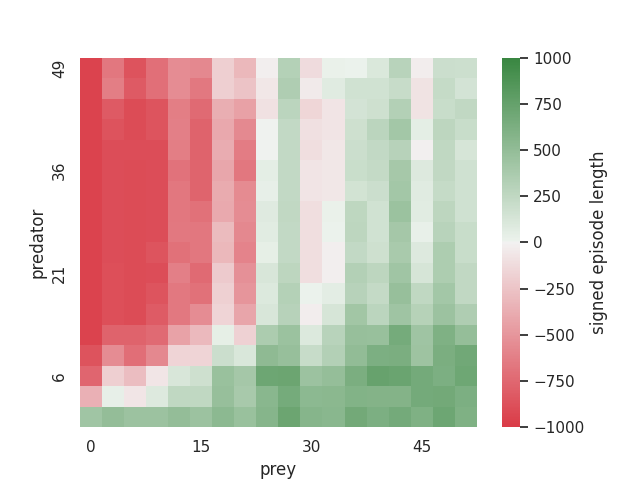
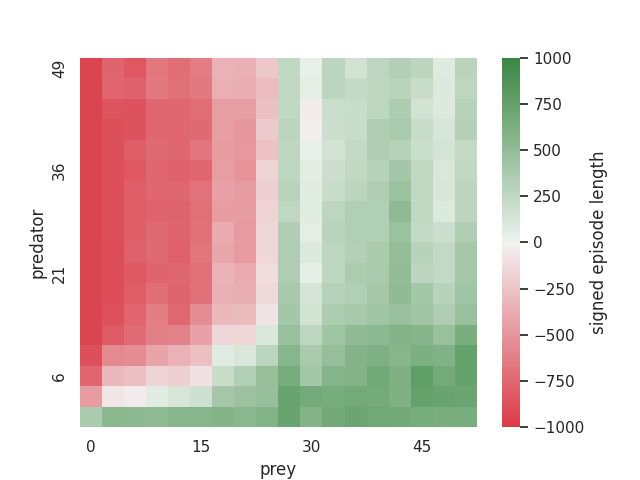
Add crosstest figure generator

diff --git a/bach-utils/bach_utils/heatmapvis.py b/bach-utils/bach_utils/heatmapvis.py
@@ -2,6 +2,18 @@ import seaborn as sns
 import matplotlib.pyplot as plt
 import plotly.graph_objects as go
 import numpy as np
+import pandas as pd
+from matplotlib.colors import LinearSegmentedColormap
+# cmap = sns.diverging_palette(145, 20, as_cmap=True).reversed()
+cmap = sns.diverging_palette(130, 10, as_cmap=True).reversed()
+# cmap = sns.color_palette("coolwarm", as_cmap=True).reversed()
+# cmap = sns.cm.rocket_r
+
+# cmap = LinearSegmentedColormap.from_list(
+#     name='test', 
+#     # colors=['red','white','green']
+#     colors=['red','white','green']
+# )
 
 # https://plotly.com/python/heatmaps/
 # http://www.heatmapper.ca/pairwise/
@@ -12,32 +24,59 @@ class HeatMapVisualizer:
     @staticmethod
     def visSeaborn(heatmap_data,
                    mn_val=0.0,
-                   mx_val=1.0,
+                   mx_val=1000.0,
                    center=0.5,
-                   labels=["prey", "predator", "win rate", "win rate (heatmap)"],
+                #    labels=["prey", "predator", "episode length", "win rate (heatmap)"],
+                   labels=["prey", "predator", "signed episode length", ""],
                    annot=False,
                    linewidth=0,
-                   cmap="bwr",#"YlGnBu",
+                   cmap=cmap,#"YlGnBu",#"YlGnBu",
                    xticklabels=5,
                    yticklabels=5,
+                   x_axis=None,
+                   y_axis=None,
                    cbar=True,
-                   show=True):
+                   show=True,
+                   save=False, save_path=None):
+        mx_val = mx_val
         if(isinstance(heatmap_data, list)):
             heatmap_data = np.mean(heatmap_data, axis=0)
-        ax = sns.heatmap(heatmap_data, 
-                         vmin=mn_val, vmax=mx_val, center=center, 
-                         cbar_kws={'label': labels[2]}, annot=annot,
-                         linewidth=linewidth,
-                         cmap=cmap,
-                         xticklabels=xticklabels, yticklabels=yticklabels,
-                         cbar=cbar
-                         )
+            # heatmap_data = np.std(heatmap_data, axis=0)
+            # mx_val = np.max(heatmap_data)
+
+        ax = None
+        if(x_axis is not None and y_axis is not None):
+            df = pd.DataFrame(heatmap_data, y_axis, columns=x_axis)
+            ax = sns.heatmap(df, 
+                            vmin=mn_val, vmax=mx_val, center=center, 
+                            cbar_kws={'label': labels[2]}, annot=annot,
+                            linewidth=linewidth,
+                            cmap=cmap,
+                            xticklabels=xticklabels, yticklabels=yticklabels,
+                            cbar=cbar
+                            )
+        else:
+            ax = sns.heatmap(heatmap_data, 
+                            vmin=mn_val, vmax=mx_val, center=center, 
+                            cbar_kws={'label': labels[2]}, annot=annot,
+                            linewidth=linewidth,
+                            cmap=cmap,
+                            xticklabels=xticklabels, yticklabels=yticklabels,
+                            cbar=cbar
+                            )
         ax.set_xlabel(labels[0])
         ax.set_ylabel(labels[1])
         ax.set_title(labels[3])
-        
+        if(save):
+            if(save_path is None):
+                print("Saved in the script place with name: test.png")
+                plt.savefig('test.png')
+            else:
+                print(f"Saved in the script place with name: {save_path}")
+                plt.savefig(save_path)
         if(show):
             plt.show()
+        
 
         return ax
     @staticmethod

diff --git a/figures_gen/crosstest_gen.py b/figures_gen/crosstest_gen.py
@@ -1,0 +1,32 @@
+import seaborn as sns
+import pandas as pd
+import numpy as np
+from matplotlib import pyplot as plt
+ 
+
+cmap = sns.color_palette("coolwarm", as_cmap=True).reversed() #sns.cm.rocket_r
+
+# ['pop5', 'random']
+# [[0.         0.60266667]
+#  [0.         0.        ]]
+# Create a dataset
+N = 4
+# a = np.random.rand(N, N) - 0.5
+a = np.array([
+    [0,-0.7,-1, -0.3],
+    [0,0,-0.60266667, 0.2],
+    [0,0,0,0.8],
+    [0,0,0,0],
+]).T
+# for i in range(4):
+#     a[2,i] = abs(a[2,i])
+mat = -np.tril(a) + np.tril(a, -1).T
+# mat = np.random.random((4,4))-0.5
+# for i in range(4):
+#     mat[]
+
+df = pd.DataFrame(mat, ["Latest", "Random", "Population", "Delta"], columns=["Latest", "Random", "Population", "Delta"])
+
+# plot a heatmap with annotation
+sns.heatmap(df, annot=True, annot_kws={"size": 7}, vmin=-1, vmax=1, center=0, cmap=cmap)
+plt.show()
